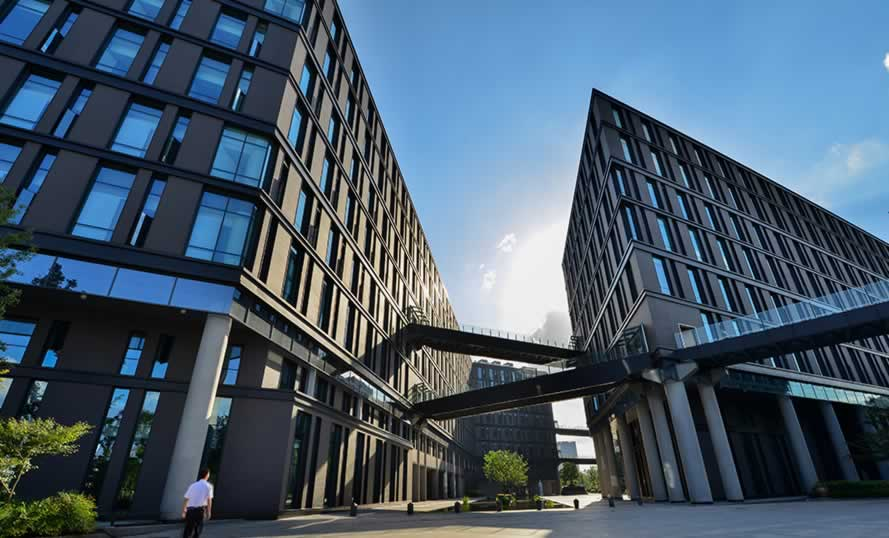
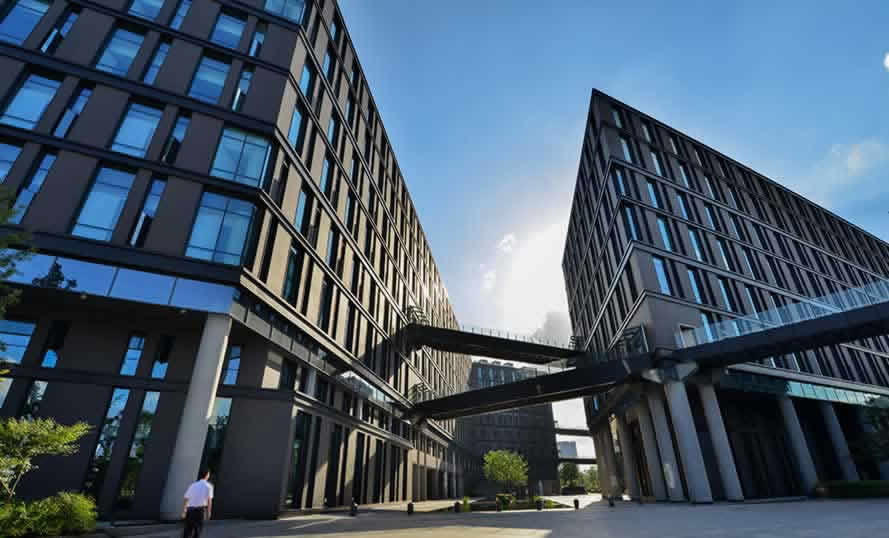
add 右侧视频介绍hover效果
添加右侧视频介绍hover效果，并压缩照片

diff --git a/index.html b/index.html
@@ -93,11 +93,11 @@
     <!--middle-->
     <div class="middlebox">
         <div class="middle">
-            <img src="img/pic1.png" alt="pic1">
-            <img src="img/pic2.png" alt="pic2">
-            <img src="img/pic3.png" alt="pic3">
-            <img src="img/pic4.png" alt="pic4">
-            <img src="img/pic5.png" alt="pic5">
+            <img src="img/pic1.jpg" alt="pic1">
+            <img src="img/pic2.jpg" alt="pic2">
+            <img src="img/pic3.jpg" alt="pic3">
+            <img src="img/pic4.jpg" alt="pic4">
+            <img src="img/pic5.jpg" alt="pic5">
         </div>
     </div>
     <!--middle-->
@@ -134,6 +134,7 @@
                     <p>观看下面的视频来了解吧：</p>
                     <div class="playvideo">
                         <img src="img/video.jpg" alt="机构介绍">
+                        <span class="play-btn"></span>
                     </div>
                 </div>
                 <div class="toplist">
@@ -218,8 +219,8 @@
     <div class="mask v-mask">
         <div class="video">
             <h2 class="tt">请观看下面的视频</h2>
-            <video src="http://mov.bn.netease.com/open-movie/nos/mp4/2014/12/30/SADQ86F5S_shd.mp4" controls="true" poster="img/poster.jpg">
-                <embed autostart="false" type="applocation/x-shockwave-flash" src="http://mov.bn.netease.com/open-movie/nos/mp4/2014/12/30/SADQ86F5S_shd.mp4">
+            <video src="https://mov.bn.netease.com/open-movie/nos/mp4/2014/12/30/SADQ86F5S_shd.mp4" controls="true" poster="img/poster.jpg">
+                <embed autostart="false" type="applocation/x-shockwave-flash" src="https://mov.bn.netease.com/open-movie/nos/mp4/2014/12/30/SADQ86F5S_shd.mp4">
             </video>
             <span class="closed">X</span>
         </div>

diff --git a/css/main.css b/css/main.css
@@ -510,6 +510,9 @@
     outline:1px solid #dcdcdc; 
     background-color: #fff;
 }
+.side .introduce:hover{
+    box-shadow: 0px 3px 3px 0px #dcdcdc;
+}
 .side .title{
     height: 55px;
     line-height: 55px;
@@ -527,6 +530,17 @@
 .side .playvideo{
     padding: 0 20px;
     cursor: pointer;
+    position: relative;
+}
+.side .playvideo:hover .play-btn{
+   position: absolute;
+   width: 46px;
+   height: 46px;
+   top: 50%;
+   left: 50%;
+   margin-left: -23px;
+   margin-top: -23px;
+   background: url('../img/icon.png') -66px -1px no-repeat;
 }
 /*toplist*/
 .side .toplist{
@@ -618,7 +632,7 @@
     width: 235px;
     height: 24px;
     display: inline-block;
-    background: url('../img/icon.png')  -65px -96px no-repeat;
+    background: url('../img/logo.png')  center no-repeat;
 }
 .footer .info p{
     padding-top: 28px;
